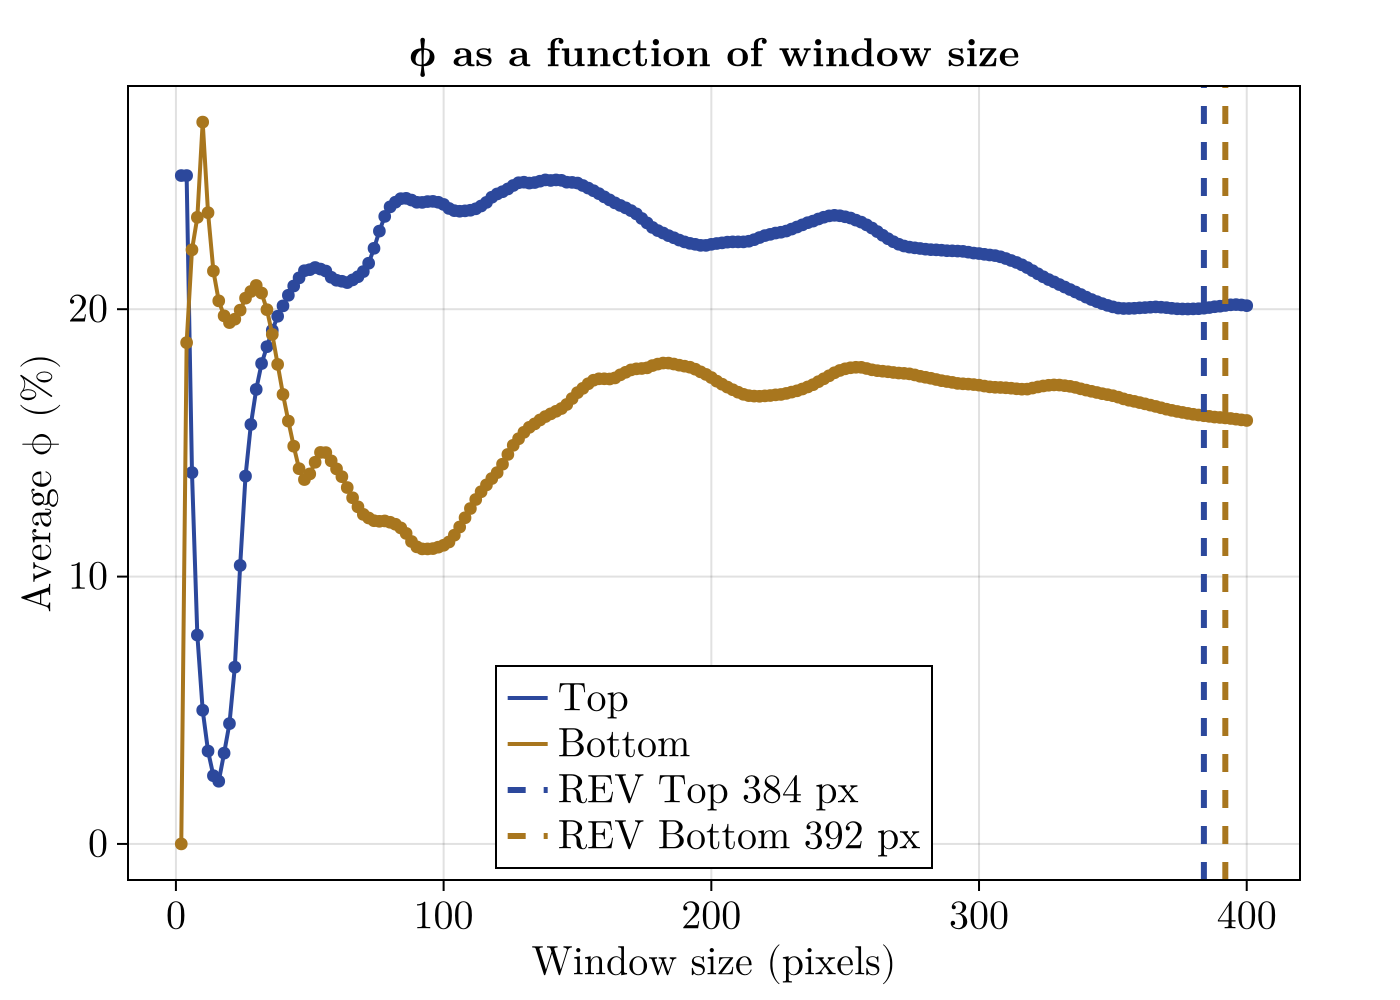
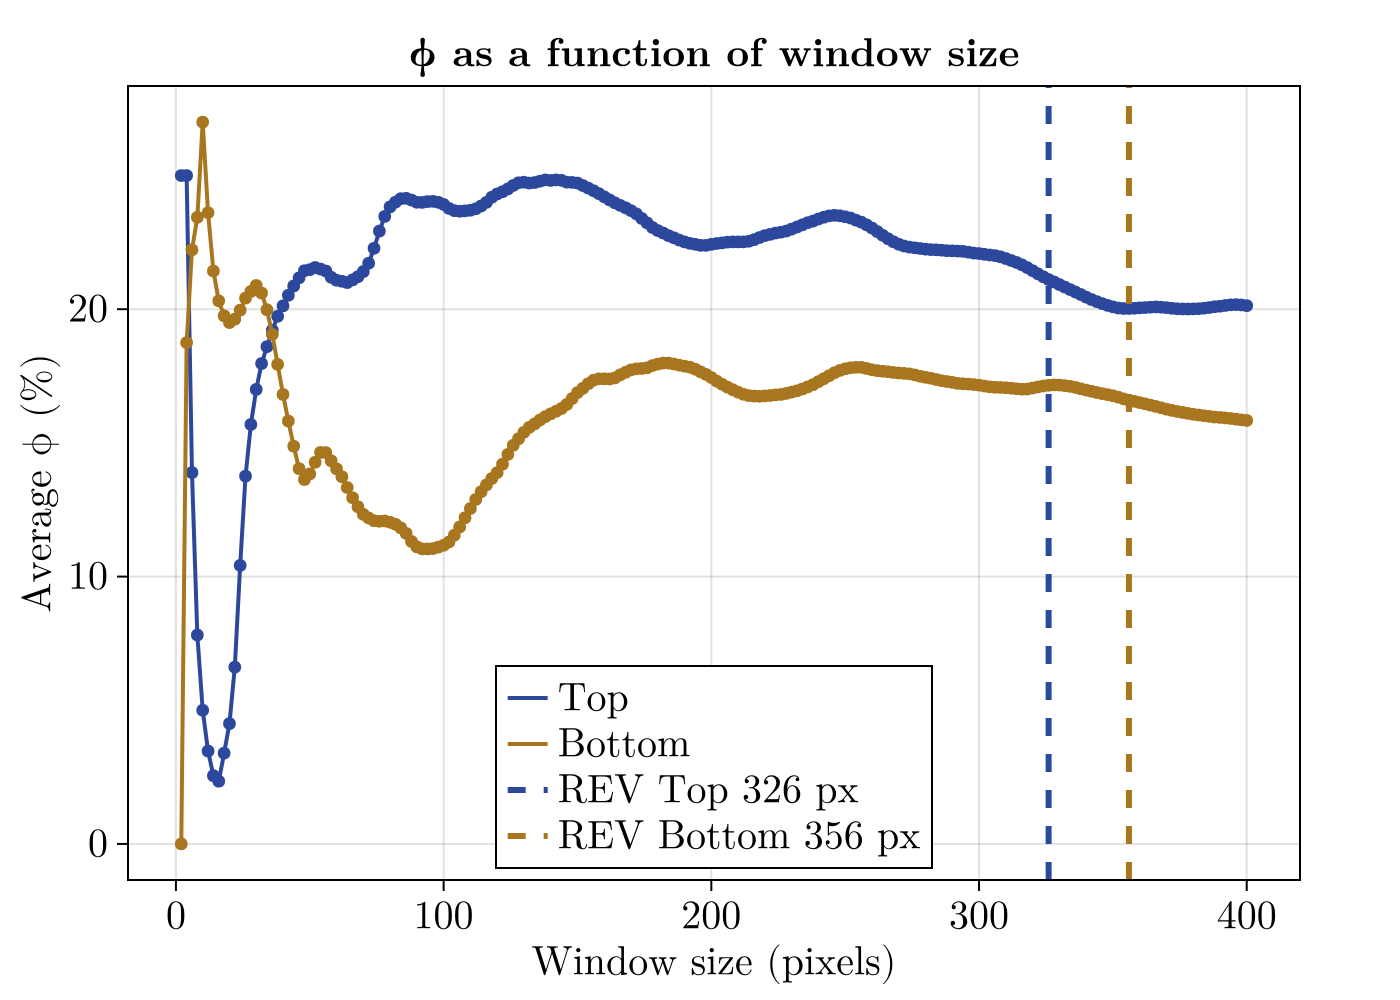
Fixed convention for parameters and add hw1 writeup as a markdown for pdf upload

diff --git a/h1_writeup.md b/h1_writeup.md
@@ -1,0 +1,44 @@
+# Homework 1: Porosity and Representative Elementary Volume (REV)
+
+Viet M. Bui,
+2026-08-21,
+GLY 6826 - Hydrogeologic Modeling
+
+Code source: [gh:vietbuiminh/hydro-modeling/porosity_and_rev.jl](https://github.com/vietbuiminh/hydro-modeling/blob/main/porosity_and_rev.jl)
+
+> This matter because you can view my commits history
+---
+
+a) Plot the two micro-CT cross sections.
+
+![Berea XSection](figures/berea_sandstone_xsection.png)
+
+> Figure 1: Show the cross section from the binary files for Berea top cross section and bottom section. Light yellow is indicating the pore/void section while dark yellow is indicating the solid section
+
+b) Estimate the porosity of the rock from each cross section. 
+
+The porosity of the rock from each cross section:
+
+$\phi$ Top is estimated to be 0.2013 by taking the division of the total_void / total_bulk. Same goes for $\phi$ Bottom, where the estimation if 0.1584
+
+More calculate can be view inside the Julia file from Github.
+
+c) For each cross section,calculate the average porosity within a square window centered on the image as a function of window size. Plot the results for both cross sections on the same graph.
+
+I made into an Object/Module so it is easier to debug and reuse.
+
+![Average Porosity as a function of window size](figures/berea_sandstone_avg_phi.png)
+> Figure 2: Average Porosity (%) as the function of window size ranging from 2px to 400px of a square window edge. Solid blue line shows for the top cross section while solid yellow line indicates for bottom cross section of Berea sandstone. 
+
+d) Based on the results from part (c), estimate the characteristic length scale of the representative elementary volume (REV) in pixel units.
+
+![REV](figures/berea_sandstone_rev.png)
+
+Note: the REV is the large enough window size which the average $\phi$ properties become approx. stable. Also it is better to let the computer do this by scanning the part (c) curve from the largest to smallest windows and take the first window size after the last tolerance violation.
+
+The tolerance threshold (T) from Yang et al. 2026 suggests 10% is a balance choice. The percentage was selected through sensitivity analysis identified a tolerance threshold ranging between 5% and 15% of the bulk porosity from tight sandstone pore structures. However, their works was estimated with 3D CT where voxel is the unit of volume, here we are using square pixels as the unit of the area and with the justification from the observed curves, I reduced the recommended tolerance threshold to 5% for this 2D case.
+
+After running, REV estimated for Top xcross is 326 px ($\phi ~= 21%$) because it reached a stable flat line in the range of 344 to 400 px, and for Bot xcross is 356 px ($\phi ~= 16%$). However, the Bot curve suggest the REV could be improved by even a larger window size since the curve is still going down and have not yet reached a stable flat line. 
+
+*Reference:*
+- Yang, B., Dong, P., Liu, J., Peng, J., & Li, L. (2026). Evaluation of Representative Elementary Volumes for Characterizing Tight Sandstone Microstructure via 3D CT Reconstruction. Water, 18(15), 1805. https://doi.org/10.3390/w18151805
